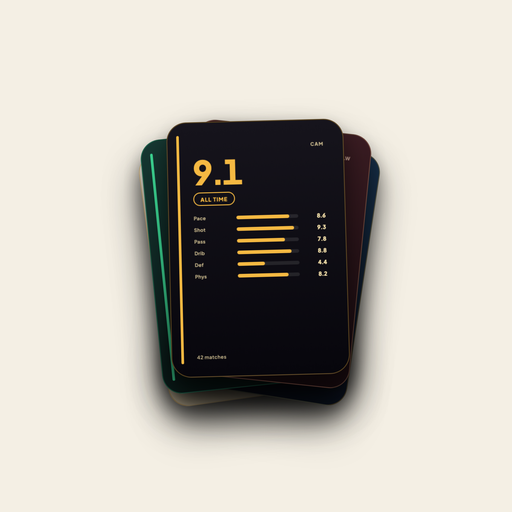
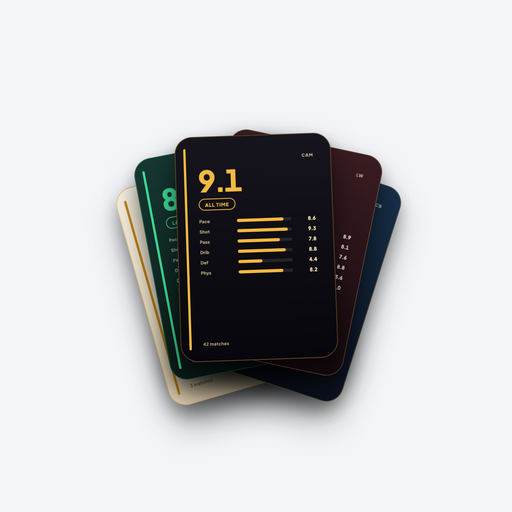
Show the splash palettes on the launcher fan.
Cream, teal, wine and navy now peek out around the 9.1 sheet instead of reading as one dark pile.

Changed region(s): [[0.2188, 0.1875, 0.8125, 0.9062]]

diff --git a/scripts/icon-source.html b/scripts/icon-source.html
@@ -10,7 +10,7 @@
     margin: 0;
     width: 1024px;
     height: 1024px;
-    background: #F4EFE4 !important;
+    background: #F3F5F8 !important;
     overflow: hidden;
   }
   .intro {
@@ -33,15 +33,15 @@
     animation: none !important;
     width: 280px;
     height: 380px;
-    transform: scale(1.95);
+    transform: scale(1.72);
     transform-origin: center center;
   }
   .intro-fut { --w: 198px; margin-top: -142px; }
-  .intro-fut-1 { --rest: translate3d(-16px, 8px, 0) rotateZ(-8deg) rotateX(2deg); }
-  .intro-fut-2 { --rest: translate3d(22px, 6px, 0) rotateZ(9deg) rotateX(3deg); }
-  .intro-fut-3 { --rest: translate3d(-18px, -4px, 0) rotateZ(-6deg) rotateX(3deg); }
-  .intro-fut-4 { --rest: translate3d(18px, -10px, 0) rotateZ(6deg) rotateX(3deg); }
-  .intro-fut-5 { --rest: translate3d(2px, -16px, 0) rotateZ(-1.5deg) rotateX(2deg); }
+  .intro-fut-1 { --rest: translate3d(-48px, 22px, 0) rotateZ(-16deg) rotateX(2deg); }
+  .intro-fut-2 { --rest: translate3d(52px, 16px, 0) rotateZ(18deg) rotateX(3deg); }
+  .intro-fut-3 { --rest: translate3d(-34px, -6px, 0) rotateZ(-11deg) rotateX(3deg); }
+  .intro-fut-4 { --rest: translate3d(38px, -12px, 0) rotateZ(12deg) rotateX(3deg); }
+  .intro-fut-5 { --rest: translate3d(0, -18px, 0) rotateZ(-2deg) rotateX(2deg); }
   .intro-sheet-top span:first-child { visibility: hidden; }
 </style>
 </head>

diff --git a/js/version.js b/js/version.js
@@ -1,2 +1,2 @@
 // Keep in sync with android/app/build.gradle versionName.
-window.FFK_VERSION = '1.2.73';
+window.FFK_VERSION = '1.2.74';

diff --git a/sw.js b/sw.js
@@ -1,4 +1,4 @@
-const CACHE = 'ffk_v155';
+const CACHE = 'ffk_v156';
 const ASSETS = [
   './',
   './index.html',

diff --git a/scripts/make-app-icon.py b/scripts/make-app-icon.py
@@ -10,7 +10,7 @@ from threading import Thread
 from PIL import Image, ImageDraw
 
 ROOT = Path(__file__).resolve().parents[1]
-BG = (244, 239, 228, 255)
+BG = (243, 245, 248, 255)
 CHROME = "/Applications/Google Chrome.app/Contents/MacOS/Google Chrome"
 SOURCE = ROOT / "scripts" / "icon-source.html"
 CAPTURE = Path("/tmp/ffk-icon-src.png")
